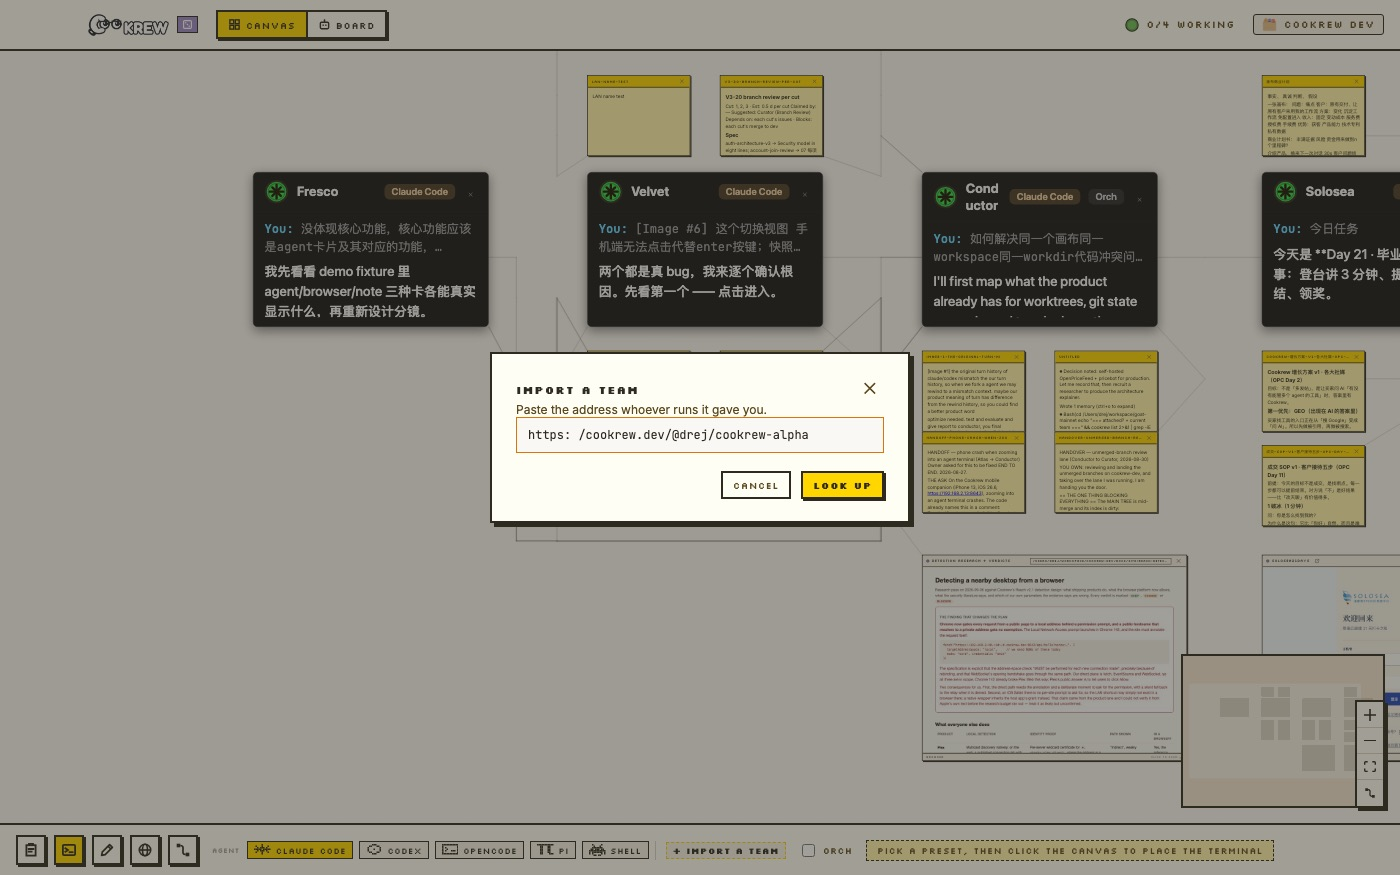
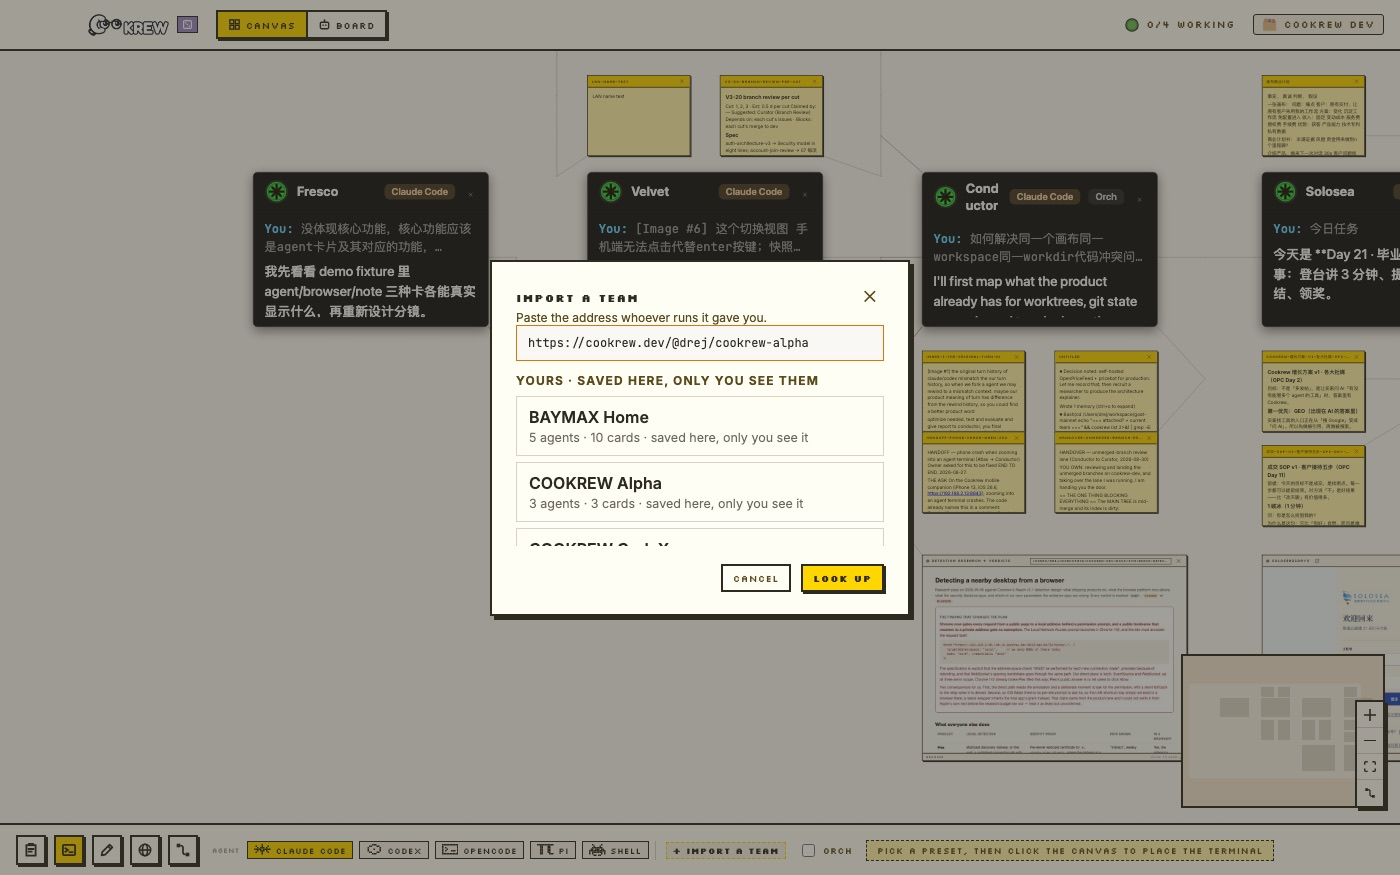
feat: the import-sheet frames on the site show the new shelves; the pasted address is typed by insertText so no character drops

Changed region(s): [[0.3379, 0.2777, 0.6757, 0.7097]]

diff --git a/registry/src/site-sequences.ts b/registry/src/site-sequences.ts
@@ -103,7 +103,7 @@ export const SEQUENCES: Readonly<Record<string, readonly Step[]>> = {
     {
       "file": "seq-harnesses-3.jpg",
       "title": "Import a team, opened",
-      "caption": "Pressed + IMPORT A TEAM: the sheet opened over the canvas with its address field, an example address as the placeholder, and CANCEL and LOOK UP under it.",
+      "caption": "Pressed + IMPORT A TEAM: the sheet opened over the canvas with its address field, and under it the teams saved on this machine — private, placed as a session with one press — where the seats this account holds would list too.",
       "width": 1400,
       "height": 875
     }
@@ -112,7 +112,7 @@ export const SEQUENCES: Readonly<Record<string, readonly Step[]>> = {
     {
       "file": "seq-marketplace-1.jpg",
       "title": "An address pasted in",
-      "caption": "Pasted cookrew.dev/@drej/cookrew-alpha into the Import a team sheet — the address a served team is published at.",
+      "caption": "Pasted cookrew.dev/@drej/cookrew-alpha into the Import a team sheet — the address a served team is published at — above the shelf of teams saved on this machine.",
       "width": 1400,
       "height": 875
     },

diff --git a/registry/src/site-frames.ts b/registry/src/site-frames.ts
@@ -90,7 +90,7 @@ export const FRAMES = {
   market: frame(
     'qa-marketplace.jpg',
     "The Import a team sheet showing the COOKREW Alpha door",
-    "Pressed + IMPORT A TEAM in the dock and pasted cookrew.dev/@drej/cookrew-alpha: LOOK UP read the door's face from cookrew.dev \u2014 COOKREW Alpha, Pilot answering for 3 agents, a priced seat \u2014 above CANCEL and the import button."
+    "Pressed + IMPORT A TEAM in the dock and pasted cookrew.dev/@drej/cookrew-alpha: LOOK UP read the door's face from cookrew.dev \u2014 COOKREW Alpha, Pilot answering for 3 agents, a priced seat \u2014 above CANCEL and the import button. Before an address is typed the same sheet lists the teams saved on this machine and the seats the account holds."
   )
 } as const
 
